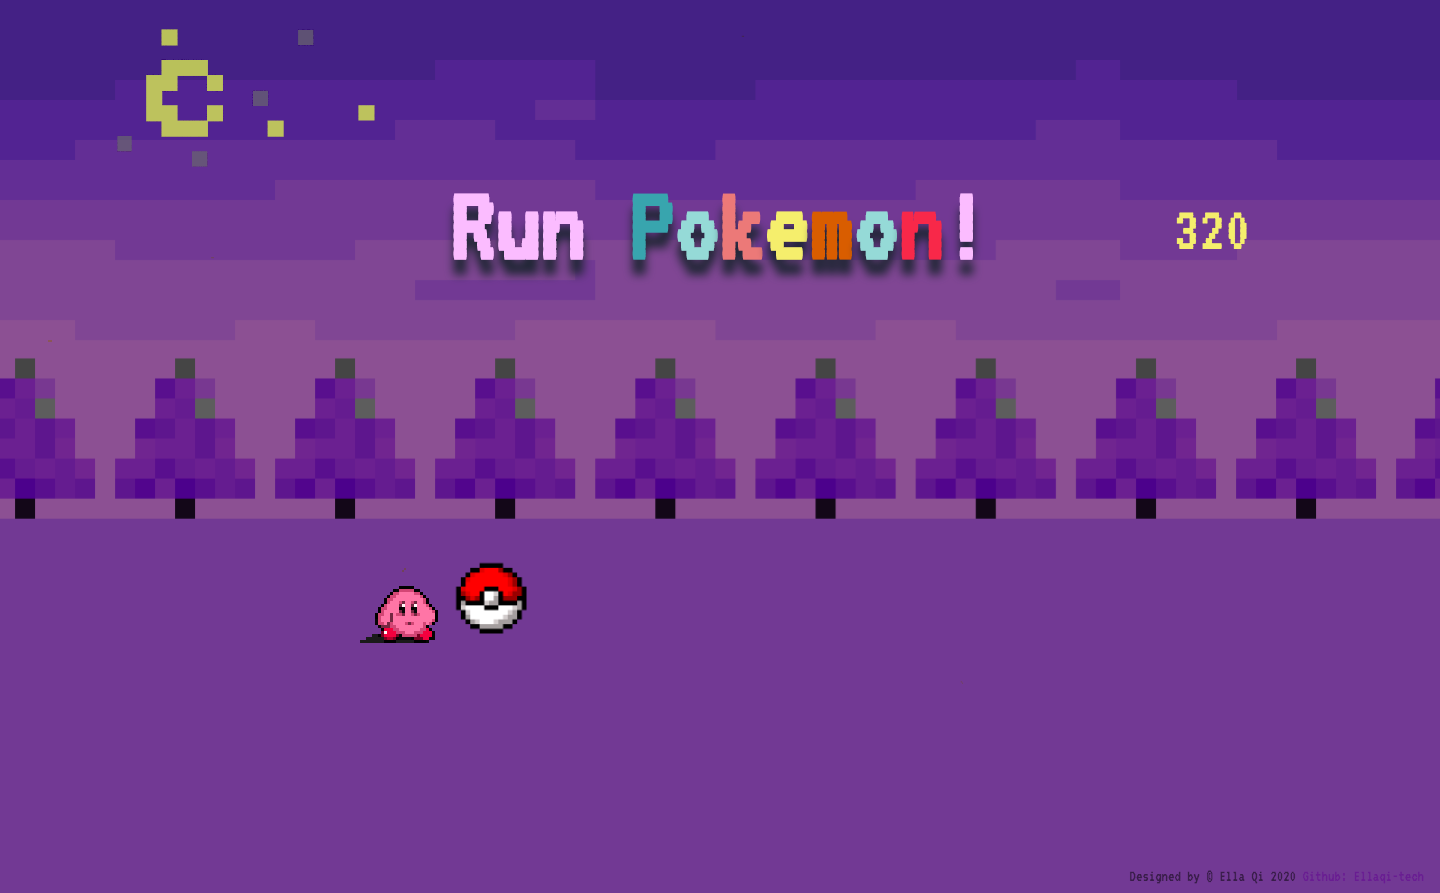
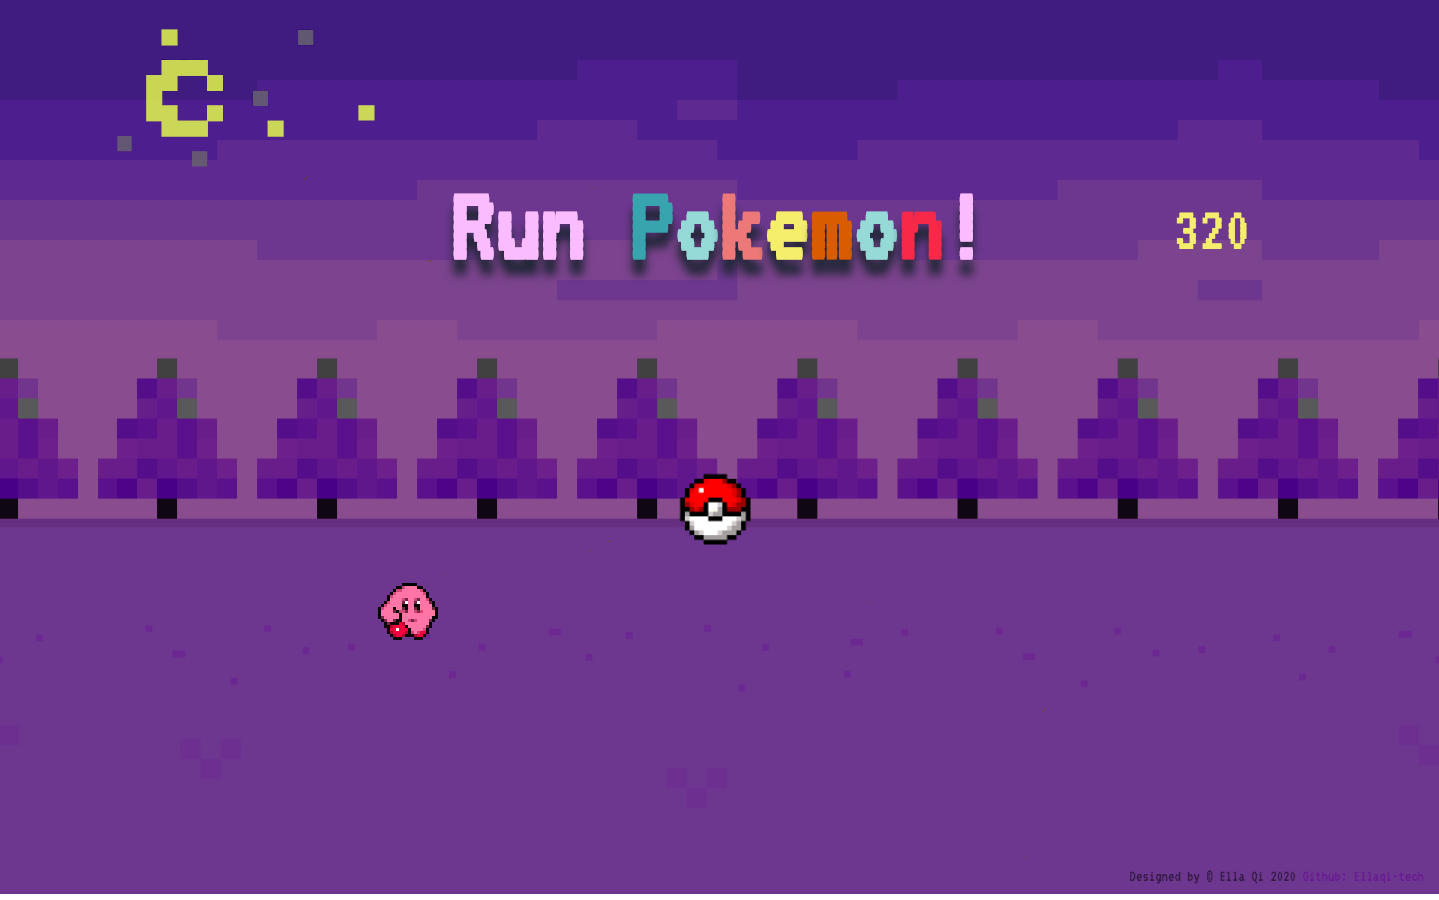
update pokemon assets

diff --git a/style/animation-style.css b/style/animation-style.css
@@ -8,7 +8,7 @@ body {
     font-family: 'VT323', monospace;
     margin: 0 auto;
     padding: 0;
-    background: url(../img/newbg.png);
+    background: url(../img/newbg-withstones.png);
     height: auto;
     background-size: cover;
     background-position: 0 0;
@@ -42,7 +42,7 @@ a {
 }
 @keyframes bgnight {
     0% {
-        background: url(../img/newbg.png);
+        background: url(../img/newbg-withstones.png);
         background-size: cover;
         background-repeat: repeat-x;
     }
@@ -281,26 +281,26 @@ h1 {
 }
 @keyframes runmove {
     0% {
-        content:url("../img/static.png");
+        content:url("../img/static-noshadow.png");
     }
     50% {
-        content: url("../img/run.png");
+        content: url("../img/run-noshadow.png");
     }
 }
 @-moz-keyframes runmove {
     0% {
-        content:url("../img/static.png");
+        content:url("../img/static-noshadow.png");
     }
     50% {
-        content: url("../img/run.png");
+        content: url("../img/run-noshadow.png");
     }
 }
 @-webkit-keyframes runmove {
     0% {
-        content:url("../img/static.png");
+        content:url("../img/static-noshadow.png");
     }
     50% {
-        content: url("../img/run.png");
+        content: url("../img/run-noshadow.png");
     }
 }
 #static {

diff --git a/pockemon-game.html b/pockemon-game.html
@@ -46,9 +46,9 @@
 <!--************************** game part ***********************-->
             <div id="container">
                 <div id="pokemon">
-                    <img id="run" class="smallpokemon" src="img/static.png" alt="a static pokemon">
+                    <img id="run" class="smallpokemon" src="img/static-noshadow.png" alt="a static pokemon">
                 </div>
-                <img id="static" class="smallpokemon" src="img/static.png" alt="a static pokemon">
+                <img id="static" class="smallpokemon" src="img/static-withshadow.png" alt="a static pokemon">
                 <img id="ball" src="img/ball1.png" alt="ball">
                 <div id="gotcha">Gotcha!</div>
             </div>
